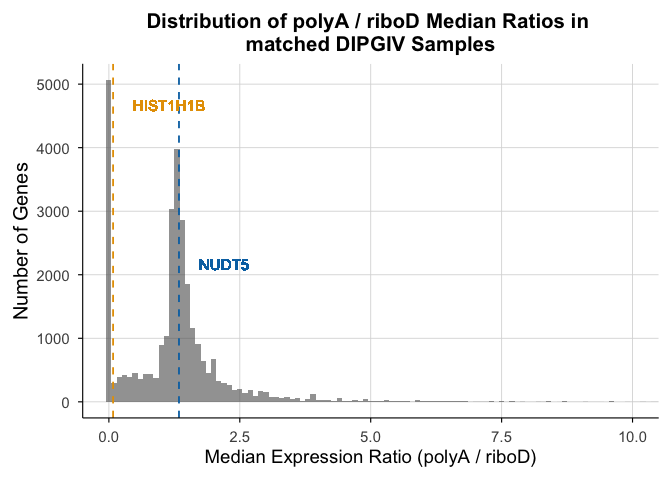
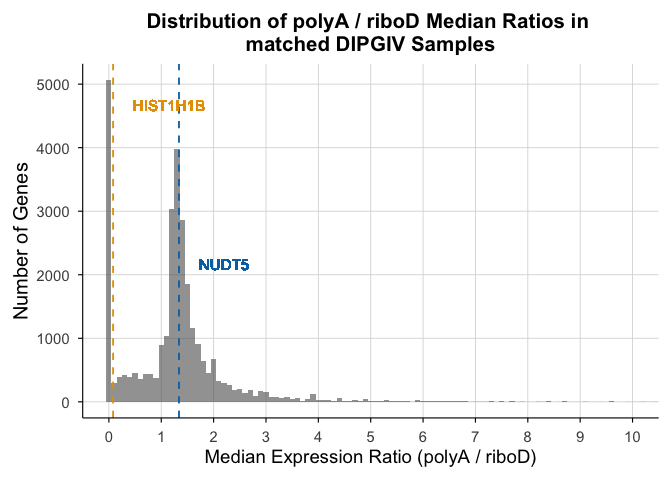
THR13_0970_S12-S17_rep_genes
changed histogram x-axis ticks to be 0, 1, 2, 3, etc

diff --git a/THR13_0970_S12-S17/THR13_0970_S12-S17_rep_genes.md b/THR13_0970_S12-S17/THR13_0970_S12-S17_rep_genes.md
@@ -447,6 +447,7 @@ ratio_hist_plot <- ggplot(THR13_ratios, aes(x = THR13_median_ratio)) +
   geom_vline(xintercept = 0.08042886, color = "#E69F00", linetype = "dashed") +
   geom_text(aes(x = 1.15, y = 4500, label = "HIST1H1B"), angle = 0, vjust = -0.5, color = "#E69F00", size = 4) +
   coord_cartesian(xlim = c(0, 10)) +
+  scale_x_continuous(breaks = c(0, 1, 2, 3, 4, 5, 6, 7, 8, 9, 10)) +
   labs(
     title = "Distribution of polyA / riboD Median Ratios in \nmatched DIPGIV Samples",
     x = "Median Expression Ratio (polyA / riboD)",
@@ -485,7 +486,7 @@ sessioninfo::session_info()
      collate  en_US.UTF-8
      ctype    en_US.UTF-8
      tz       America/Los_Angeles
-     date     2026-09-18
+     date     2026-09-22
      pandoc   3.8.3 @ /Applications/RStudio.app/Contents/Resources/app/quarto/bin/tools/aarch64/ (via rmarkdown)
      quarto   1.9.36 @ /Applications/RStudio.app/Contents/Resources/app/quarto/bin/quarto
 
